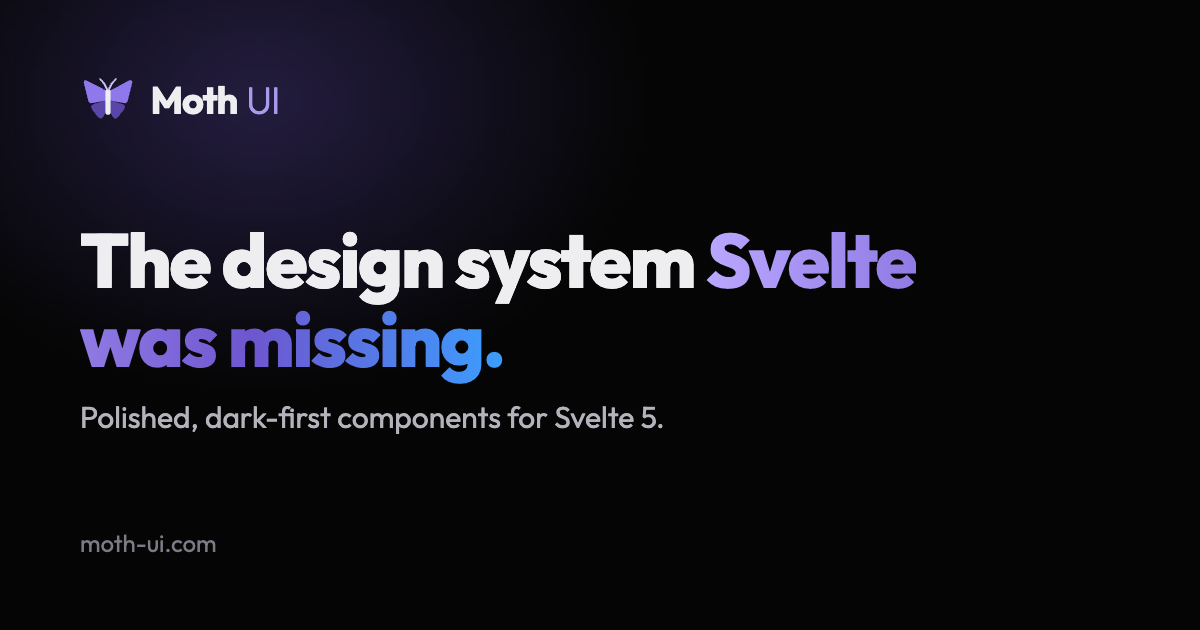
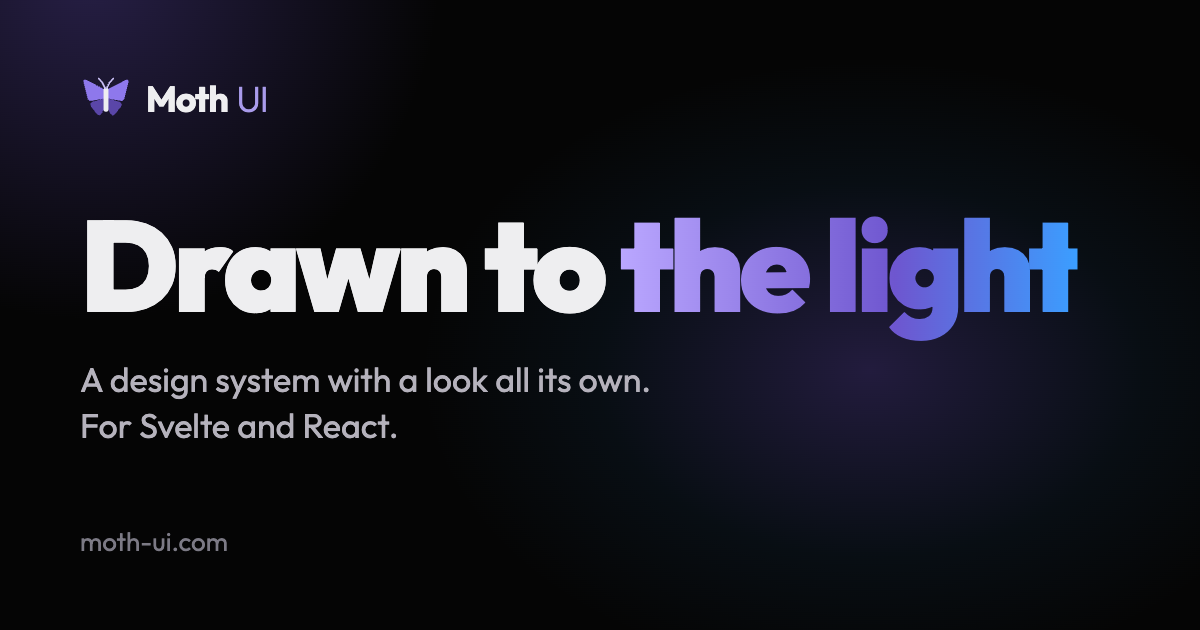
updated copy to migrate away from dark only, and to include future react version

Changed region(s): [[0.0617, 0.0, 0.925, 0.8143], [0.0, 0.0, 0.1233, 0.0905], [0.0617, 0.8444, 0.185, 0.8746]]

diff --git a/src/routes/+page.svelte b/src/routes/+page.svelte
@@ -48,31 +48,31 @@
 
     const features = [
         {
-            title: "Built for Svelte",
-            body: "Not a port of a React library. Every component is written for Svelte 5, compiles away, and feels like plain Svelte.",
-            icon: `<path d="M13 2 3 14h9l-1 8 10-12h-9l1-8z"/>`
-        },
-        {
-            title: "Polished by default",
-            body: "Spacing, type, color and every interaction state are already designed. Drop components in and the page looks finished.",
+            title: "Polished on install",
+            body: "No theming marathon. Moth looks distinctive and finished from the first component you drop in.",
             icon: `<path d="M9.937 15.5A2 2 0 0 0 8.5 14.063l-6.135-1.582a.5.5 0 0 1 0-.962L8.5 9.936A2 2 0 0 0 9.937 8.5l1.582-6.135a.5.5 0 0 1 .963 0L14.063 8.5A2 2 0 0 0 15.5 9.937l6.135 1.581a.5.5 0 0 1 0 .964L15.5 14.063a2 2 0 0 0-1.437 1.437l-1.582 6.135a.5.5 0 0 1-.963 0z"/><path d="M20 3v4"/><path d="M22 5h-4"/><path d="M4 17v2"/><path d="M5 18H3"/>`
         },
         {
-            title: "Dark first, light too",
-            body: "Designed dark-first, so every surface, border and text color is tuned for low-light interfaces, with a matching light theme one attribute away.",
-            icon: `<path d="M12 3a6 6 0 0 0 9 9 9 9 0 1 1-9-9Z"/>`
+            title: "Svelte and React",
+            body: "The same components, the same look, in whichever framework you build with.",
+            icon: `<path d="m18 16 4-4-4-4"/><path d="m6 8-4 4 4 4"/><path d="m14.5 4-5 16"/>`
         },
         {
-            title: "Zero dependencies",
-            body: "Svelte is the only peer dependency. Nothing else to install, update or audit.",
-            icon: `<path d="m7.5 4.27 9 5.15"/><path d="M21 8a2 2 0 0 0-1-1.73l-7-4a2 2 0 0 0-2 0l-7 4A2 2 0 0 0 3 8v8a2 2 0 0 0 1 1.73l7 4a2 2 0 0 0 2 0l7-4A2 2 0 0 0 21 16Z"/><path d="m3.3 7 8.7 5 8.7-5"/><path d="M12 22V12"/>`
+            title: "Glows in the dark. Shines in the light.",
+            body: "Both themes are designed token by token, not inverted.",
+            icon: `<circle cx="12" cy="12" r="10"/><path d="M12 18a6 6 0 0 0 0-12v12z"/>`
+        },
+        {
+            title: "Accessible by default",
+            body: "Keyboard support, visible focus, and a high-contrast mode that switches on automatically when users ask for it.",
+            icon: `<circle cx="16" cy="4" r="1"/><path d="m18 19 1-7-6 1"/><path d="m5 8 3-3 5.5 3-2.36 3.5"/><path d="M4.24 14.5a5 5 0 0 0 6.88 6"/><path d="M13.76 17.5a5 5 0 0 0-6.88-6"/>`
         }
     ];
 </script>
 
 <Seo
-    title="Moth UI · The Svelte design system"
-    description="Moth UI is a complete, dark-first design system for Svelte 5. {components.length} polished components that look finished the moment you install them. No theming, no config."
+    title="Moth UI · The design system for Svelte and React"
+    description="A design system for Svelte and React with a look all its own: soft ambient light, {components.length} polished components, and a fast path from empty project to finished UI."
     path="/"
 />
 
@@ -83,11 +83,11 @@
             <div class="hero-glow" aria-hidden="true"></div>
             <div class="hero-copy">
                 <h1 class="hero-title">
-                    The design system <span class="accent">Svelte was missing.</span>
+                    Drawn to <span class="accent">the light</span>
                 </h1>
                 <Text size="xl" variant="weak" measure="s">
-                    Moth UI is a complete set of {components.length} components for Svelte 5, designed together so
-                    your app looks polished the moment you install it. No theming, no config.
+                    A design system with a look all its own: soft ambient light, polished components, and a fast path
+                    from empty project to finished UI.
                 </Text>
                 <Flex wrap>
                     <Button size="l" variant="primary" href="/getting-started">Get started</Button>

diff --git a/src/routes/getting-started/+page.svelte b/src/routes/getting-started/+page.svelte
@@ -13,7 +13,7 @@
 
 <Seo
     title="Getting started · Moth UI"
-    description="Install Moth UI, import its stylesheet and start using Svelte components in three steps."
+    description="Install Moth UI, import its stylesheet and start using its components in three steps."
     path="/getting-started"
 />
 
@@ -22,21 +22,20 @@
         <Flex direction="column">
             <Text size="3xl" weight="black" as="h1">Getting Started</Text>
             <Text size="l" variant="weak">
-                Moth UI is a modern design system for building consistent, high-quality interfaces fast. 
-                It gives you reusable components, design tokens, and utilities so your UI stays cohesive 
-                without slowing you down.
+                Moth UI is a design system with a look all its own: soft ambient light, polished components, and a
+                fast path from empty project to finished UI.
             </Text>
             <Text size="l" variant="weak">
-                Built on Svelte — chosen for its simplicity, tiny bundles, near-zero runtime, 
-                and code that feels like plain HTML/CSS/JS. Our mission: make beautiful interfaces 
-                quick and enjoyable to build.
+                It comes for Svelte and React: the same components and the same look, in whichever framework you
+                build with.
             </Text>
         </Flex>
 
         <Flex direction="column">
             <Text size="2xl" weight="bold" as="h2">Requirements</Text>
             <Text size="l" variant="weak" measure="l">
-                Moth UI needs <Code>svelte</Code> 5 or later. It works in SvelteKit and in any Vite + Svelte project.
+                The Svelte version needs <Code>svelte</Code> 5 or later. It works in SvelteKit and in any Vite + Svelte
+                project.
             </Text>
             <Text size="l" variant="weak" measure="l">
                 It targets modern browsers: Chrome and Edge 111+, Safari 16.2+ and Firefox 121+. Its styles use
@@ -80,8 +79,8 @@
                 </li>
                 <li>
                     <Text size="l" variant="weak" measure="l">
-                        <strong>Is dark by default.</strong> Moth is designed dark-first, and has a light theme too
-                        (see Themes below).
+                        <strong>Is dark by default.</strong> The light theme is one attribute away (see Themes
+                        below); both are designed token by token.
                     </Text>
                 </li>
             </ul>

diff --git a/src/routes/components/+layout.svelte b/src/routes/components/+layout.svelte
@@ -14,14 +14,14 @@
 
 {#if component}
     <Seo
-        title="{component.name} · Svelte component · Moth UI"
+        title="{component.name} · Svelte and React component · Moth UI"
         description={component.description}
         path={page.url.pathname}
     />
 {:else}
     <Seo
         title="Components · Moth UI"
-        description="Every Moth UI component for Svelte 5: buttons, forms, navigation, tables, layout and more, ready to drop into your app."
+        description="Every Moth UI component for Svelte and React: buttons, forms, navigation, tables, layout and more, ready to drop into your app."
         path="/components"
     />
 {/if}

diff --git a/CLAUDE.md b/CLAUDE.md
@@ -1,11 +1,23 @@
 # Moth UI
 
-A polished, dark-first design system for **Svelte 5**, plus its documentation site. The project was previously
+A design system with a look all its own, for **Svelte and React**, plus its documentation site. The project was previously
 called "Volt UI" and is relaunching as **Moth**, a brand-new design system. Don't add Volt references, migration notes
 or changelog entries for the rename. The local repo folder is still `Volt-UI`; the GitHub repo is
 `Joseph765/moth-ui` (https://github.com/Joseph765/moth-ui).
 
 - Package: `moth-ui-svelte` (`package.json`). Docs site: `https://moth-ui.com`.
+- **Svelte and React (positioning):** all copy (landing page, SEO titles and descriptions, Getting Started intro,
+  README, `package.json` description) presents Moth as available for both Svelte and React, as if the React version
+  already exists. It doesn't yet: the user is building it over the next few days, and nobody is using the package in
+  the meantime, so this is deliberate. Don't "correct" it or add caveats. Install and setup instructions (install
+  line, Requirements, code snippets) stay Svelte-only for now; next up is a Svelte/React switcher in the left nav
+  that switches them globally. Keep new copy framework-neutral ("the same components, the same look") rather than
+  Svelte-specific, and don't call Moth "dark-first": both themes are designed token by token (dark is still the
+  default).
+- **Landing page copy** (`src/routes/+page.svelte`, set by the user): heading "Drawn to the light" ("the light" in
+  the gradient), subheading "A design system with a look all its own: soft ambient light, polished components, and
+  a fast path from empty project to finished UI.", and four cards: Polished on install, Svelte and React, Glows in
+  the dark. Shines in the light., Accessible by default.
 - Library: `src/lib` (published as `dist/` via `svelte-package`). Docs site: `src/routes` (SvelteKit).
 - Consumers import `moth-ui-svelte` for components and `moth-ui-svelte/css/index.css` for styles. There is no
   `$moth` alias any more. Docs code snippets must use these imports; docs pages themselves import from `$lib`.

diff --git a/README.md b/README.md
@@ -1,7 +1,7 @@
 # Moth UI
 
-The design system Svelte was missing: a complete set of polished, dark-first components for Svelte 5 that look
-finished the moment you install them. No theming, no config.
+A design system with a look all its own: soft ambient light, polished components, and a fast path from empty
+project to finished UI. Moth comes for Svelte and React; this is the Svelte package.
 
 **Documentation:** [moth-ui.com](https://moth-ui.com)
 
